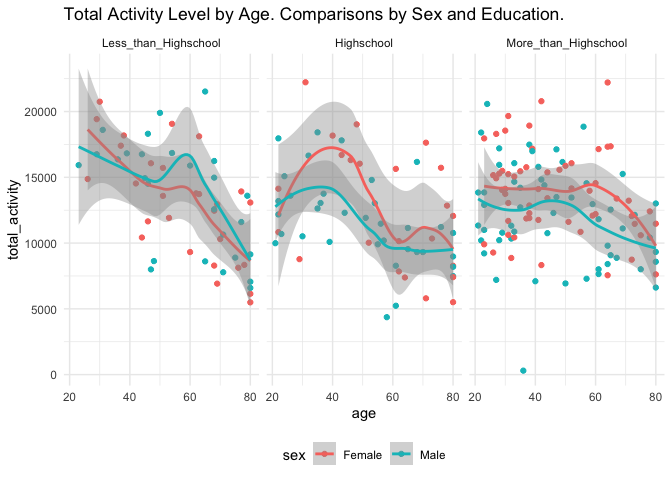
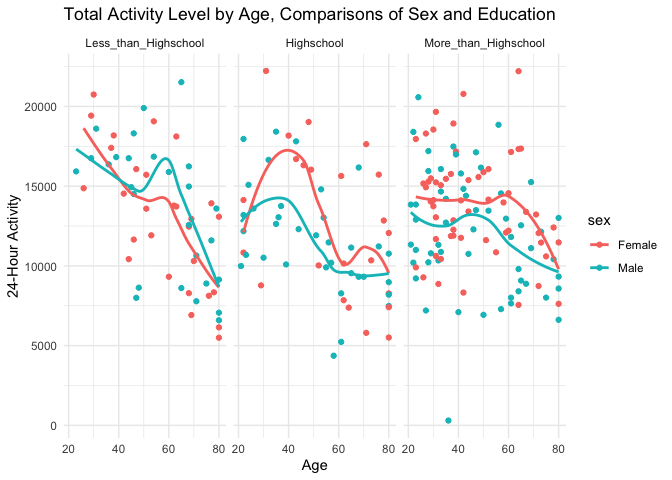
problem 2 polish

diff --git a/p8105_hw3_ryd2106.md b/p8105_hw3_ryd2106.md
@@ -26,12 +26,7 @@ covar = read_csv("./data_hw3/nhanes_covar.csv", skip = 4,
     SEQN = col_factor(),
     age = col_integer()
     )) |> 
-    filter(
-    BMI != is.na(BMI),
-    age != is.na(age),
-    education != is.na(education),
-    sex != is.na(sex)
-      ) |> 
+    drop_na( BMI, age, education, sex) |> 
   janitor::clean_names()
 
 
@@ -41,7 +36,6 @@ covar_accel = right_join(accel, covar,  by = "seqn") |>
 
 ``` r
 gender = covar_accel |> 
-  distinct(seqn, sex, education, age, mims, minute) |> 
   mutate(
     sex = case_match(
       sex,
@@ -58,6 +52,9 @@ gender = covar_accel |>
   mutate(
     education = forcats::fct_relevel(education, c("Less_than_Highschool", "Highschool", "More_than_Highschool"))
     ) |>
+  mutate(
+    sex = as.factor(sex)
+  ) |> 
   arrange(education) 
 ```
 
@@ -69,47 +66,60 @@ gender = covar_accel |>
 
 ``` r
 gender_edu_t = gender|> 
+  distinct(seqn, sex, education, age) |> 
   janitor::tabyl(education, sex) 
 
 gender_age_edu_p = gender |> 
-  ggplot(aes(x = age, fill = education)) +
-  geom_histogram(binwidth = 2, color = "black") +
+  distinct(seqn, sex, education, age) |> 
+  ggplot(aes(x = age)) +
+  geom_histogram(binwidth = 2, fill = "white", color = "royalblue4") +
   facet_grid(sex~education) +
   labs(
     title = "Age Distributions for Men and Women per Education",
-    
+    x = "Age",
+    y = "Number of participants"
   )
-theme_set(theme_minimal() + theme(legend.position = "bottom"))
+theme_set(theme_minimal())
 
 gender_edu_t
 ```
 
-    ##             education Female  Male
-    ##  Less_than_Highschool  40320 38880
-    ##            Highschool  33120 50400
-    ##  More_than_Highschool  84960 80640
+    ##             education Female Male
+    ##  Less_than_Highschool     28   27
+    ##            Highschool     23   35
+    ##  More_than_Highschool     59   56
 
 ``` r
 gender_age_edu_p
 ```
 
 ![](p8105_hw3_ryd2106_files/figure-gfm/female_male_education-1.png)<!-- -->
-To create a table of gender to education level, I first created a gender
-data frame. For this data frame, I ensured that that there were not
-multiple counts of the same seqn variable. For legibility, I renamed the
+Before creating a table of gender vs education level, I first created a
+gender data frame that would be used for all problem 2 related graphs
+and tables. For this dataframe, I ensured legibility by renaming the
 numerical factors of sex and education to their corresponding literal
 labels. I then ensured that the education level followed a linear
 progression from less than a highschool education to more than a
-highschool education. This dataframe was piped into the tabyl function
-to create a reader friendly table of counts of education level by sex.
+highschool education. This gender
+
+To create the gender vs education table, I piped in the gender
+dataframe. I then ensured that no seqn value was double counted by
+passing it into the distinct function. Finally the resulting data was
+piped into the tabyl function to create a reader friendly table of
+counts of education level by sex. The resulting table lists counts of
+participants by gender and education level.
 
 To create a histogram of the number of age distributions for men and
-women in each education category, I piped in the gender data frame into
-the ggplot function. I specified that it must be a histogram, colored by
-education level. Faceting by sex and education, I created a side by side
+women in each education category, I first piped in the gender data frame
+and ensured unique counts of the participant by their seqn id. I then
+created a histogram of the resultant data. I specified that it must be a
+histogram. Faceting by sex and education, I created a side by side
 comparison of these distributions. For aesthetics I converted the theme
-to be more minimal, widened the bins, and colored the outside of the
-bins black.
+to be more minimal, widened the bins, filled the insdie white and
+colored the outsides blue. The resulting diagram shows 6 separate
+histograms showing the counts of participants by age. There are 2 rows,
+delimited by gender, and 3 columns delimited by education level. The
+color scheme matches the school spirit.
 
 ``` r
 act_level_p = gender |> 
@@ -121,10 +131,12 @@ act_level_p = gender |>
   distinct(seqn, total_activity, age, sex, education) |> 
    ggplot(aes(x = age, y = total_activity, color = sex))+
   geom_point() +
-  geom_smooth() +
+  geom_smooth(se = FALSE) +
   facet_grid(~education) +
   labs(
-    title = "Total Activity Level by Age. Comparisons by Sex and Education."
+    title = "Total Activity Level by Age, Comparisons of Sex and Education",
+    x = "Age",
+    y = "24-Hour Activity"
   )
   
 act_level_p
@@ -141,4 +153,50 @@ seqn values were double counted, I passed the resulting table through
 the distinct function. I then created a scatterplot of the total
 activity vs age of the participant. This plot was faceted by education
 and a comparison of gender was done by coloring by this variable. I
-finally added a title.
+finally added a title, and renamed the x/y axes. This plot shows the
+relation between total activity and the age of the participant. An
+additional comparison is made across sex and education level. A clear
+decrease of total activity can be seen with the increasing age. This
+decrease is steepest within lower education levels, with a more gradual
+decrease for more educate participants. While sex is closer together in
+the least educated, their is more dichotomy between gender as the
+education level progresses. Females were found to have higher activity
+levels compared to their male counterparts in these higher education
+levels.
+
+``` r
+act_over_day = gender |> 
+  select(minute, mims, sex, education) |> 
+  mutate(
+    minute = as.numeric(gsub("min", "", minute)),
+  ) |> 
+  group_by(sex, minute, education) |> 
+  mutate(
+    mims = mean(mims)
+  ) |> 
+  ggplot(aes(x = minute, y = mims, color = sex)) +
+  geom_point(alpha = 0.005) +
+  geom_smooth()+
+  facet_grid(~education) +
+  labs(
+    title = "Activity Level Over the Day, Comparison of Sex and Education",
+    x = "Minutes",
+    y = "MIMS"
+  )
+act_over_day
+```
+
+    ## `geom_smooth()` using method = 'gam' and formula = 'y ~ s(x, bs = "cs")'
+
+![](p8105_hw3_ryd2106_files/figure-gfm/activity_level%20over%20the%20day-1.png)<!-- -->
+From this resultant graph I can see an indication that participants who
+have less education have slightly higher mims over the waking period
+(the 500-1250 minute time interval), but no strong conclusions can be
+made. In the less than high school education participants, there is less
+of a dichotomy over gender with male and female lines mainly
+overlapping. In more educated segments the gender dichotomy is more
+apparent with females having observably higher mims over the same waking
+period. When transitioning into the night (the 1250-250 minute time
+interval), activity declines substantially.
+
+\##Problem 3
